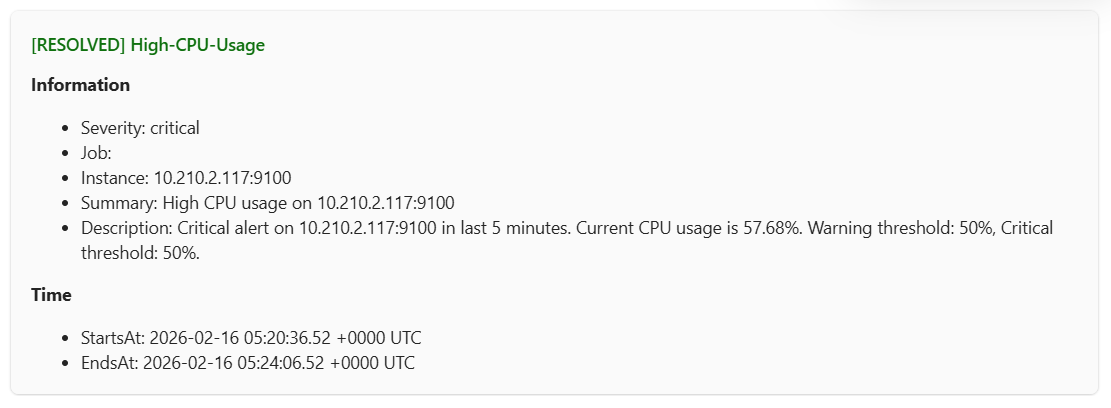
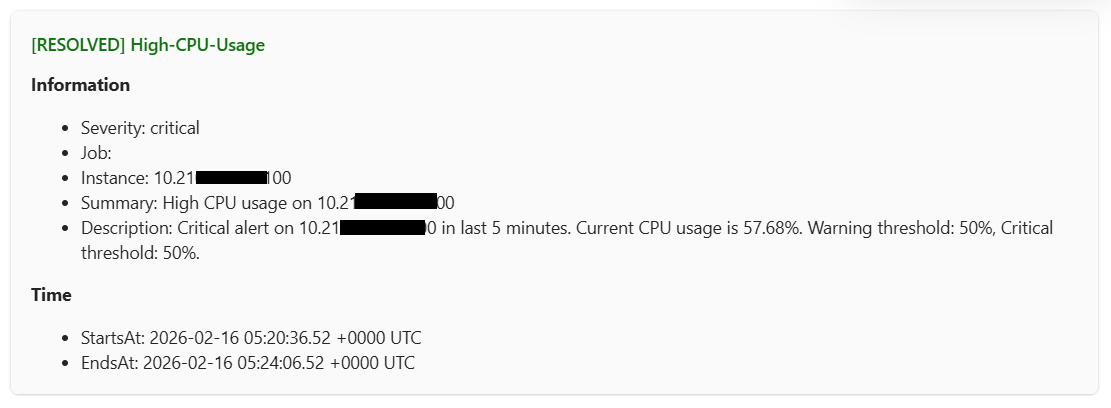
add image and done some modification

Changed region(s): [[0.306, 0.4706, 0.3978, 0.5882], [0.153, 0.4118, 0.2448, 0.4706]]

diff --git a/metrics-observability-stack/alertmanager-post-installation-configurations/04-alertmanager-custom-template-integration.md b/metrics-observability-stack/alertmanager-post-installation-configurations/04-alertmanager-custom-template-integration.md
@@ -75,12 +75,24 @@ This template:
 
 ---
 
-# 4. Modify alertmanager.yml
+## How It Looks in Teams
 
-Open:
+When firing:
+
+![Alert Firing Template](./template-images/template1-firing.png)
+
+When resolved:
+
+![Alert Firing Template](./template-images/template1-resolve.png)
+
+---
+
+## Modify alertmanager.yml
+
+Open alertmanager configuration file:
 
 ```bash
-vi /etc/alertmanager/alertmanager.yml
+vim /home/observer/container/alertmanager/alertmanager_config/alertmanager.yml
 ```
 
 Add template path at top level:
@@ -89,8 +101,10 @@ Add template path at top level:
 templates:
   - "/etc/alertmanager/templates/*.tmpl"
 ```
+>Note: This is refer to container inside directory
 
-Now configure receiver:
+
+Then configure receiver:
 
 ```yaml
 receivers:
@@ -103,14 +117,12 @@ receivers:
 ```
 
 Important:
-
-`'{{ template "teams.title" . }}'`
-
-`.` passes full alert context to template.
+- `'{{ template "teams.title" . }}'`
+- `.` passes full alert context to template.
 
 ---
 
-# 5. Restart or Reload Alertmanager
+## Restart or Reload Alertmanager
 
 If systemd:
 
@@ -121,53 +133,12 @@ systemctl restart alertmanager
 Or reload:
 
 ```bash
-curl -X POST http://localhost:9093/-/reload
+docker restart alertmanager
 ```
 
 ---
 
-# 6. How It Looks in Teams
-
-When firing:
-
-```
-🚨 [FIRING] InstanceDown
-Severity: critical
-Status: firing
-
-Instance: 10.220.16.161
-Job: windows-servers
-Summary: Instance 10.220.16.161 is down
-Description: The instance has been unreachable for 2 minutes.
-```
-
-When resolved:
-
-```
-✅ [RESOLVED] InstanceDown
-```
-
----
-
-# 7. If You Are Using group_by
-
-If your route contains:
-
-```yaml
-group_by: ["alertname", "instance"]
-```
-
-Then:
-
-• `.CommonLabels.alertname` is same
-• `.CommonLabels.instance` is same
-• `.Alerts` may contain multiple alerts
-
-This template handles that correctly.
-
----
-
-# 8. Validate Before Restart
+## Validate Before Restart
 
 Always check config:
 
@@ -179,21 +150,3 @@ If template syntax is wrong → Alertmanager will fail.
 
 ---
 
-# 9. Want More Advanced Version?
-
-If you want, I can give you:
-
-• Color-coded adaptive cards
-• Table-style structured message
-• Compact format for large alert volume
-• Special formatting for Windows server alerts
-
-Since you are running Windows server monitoring and grouping by instance, I can optimize template specifically for your environment.
-
-Tell me if you want:
-
-1. Simple clean
-2. Enterprise formatted
-3. Compact high-volume format
-
-I’ll prepare accordingly.
